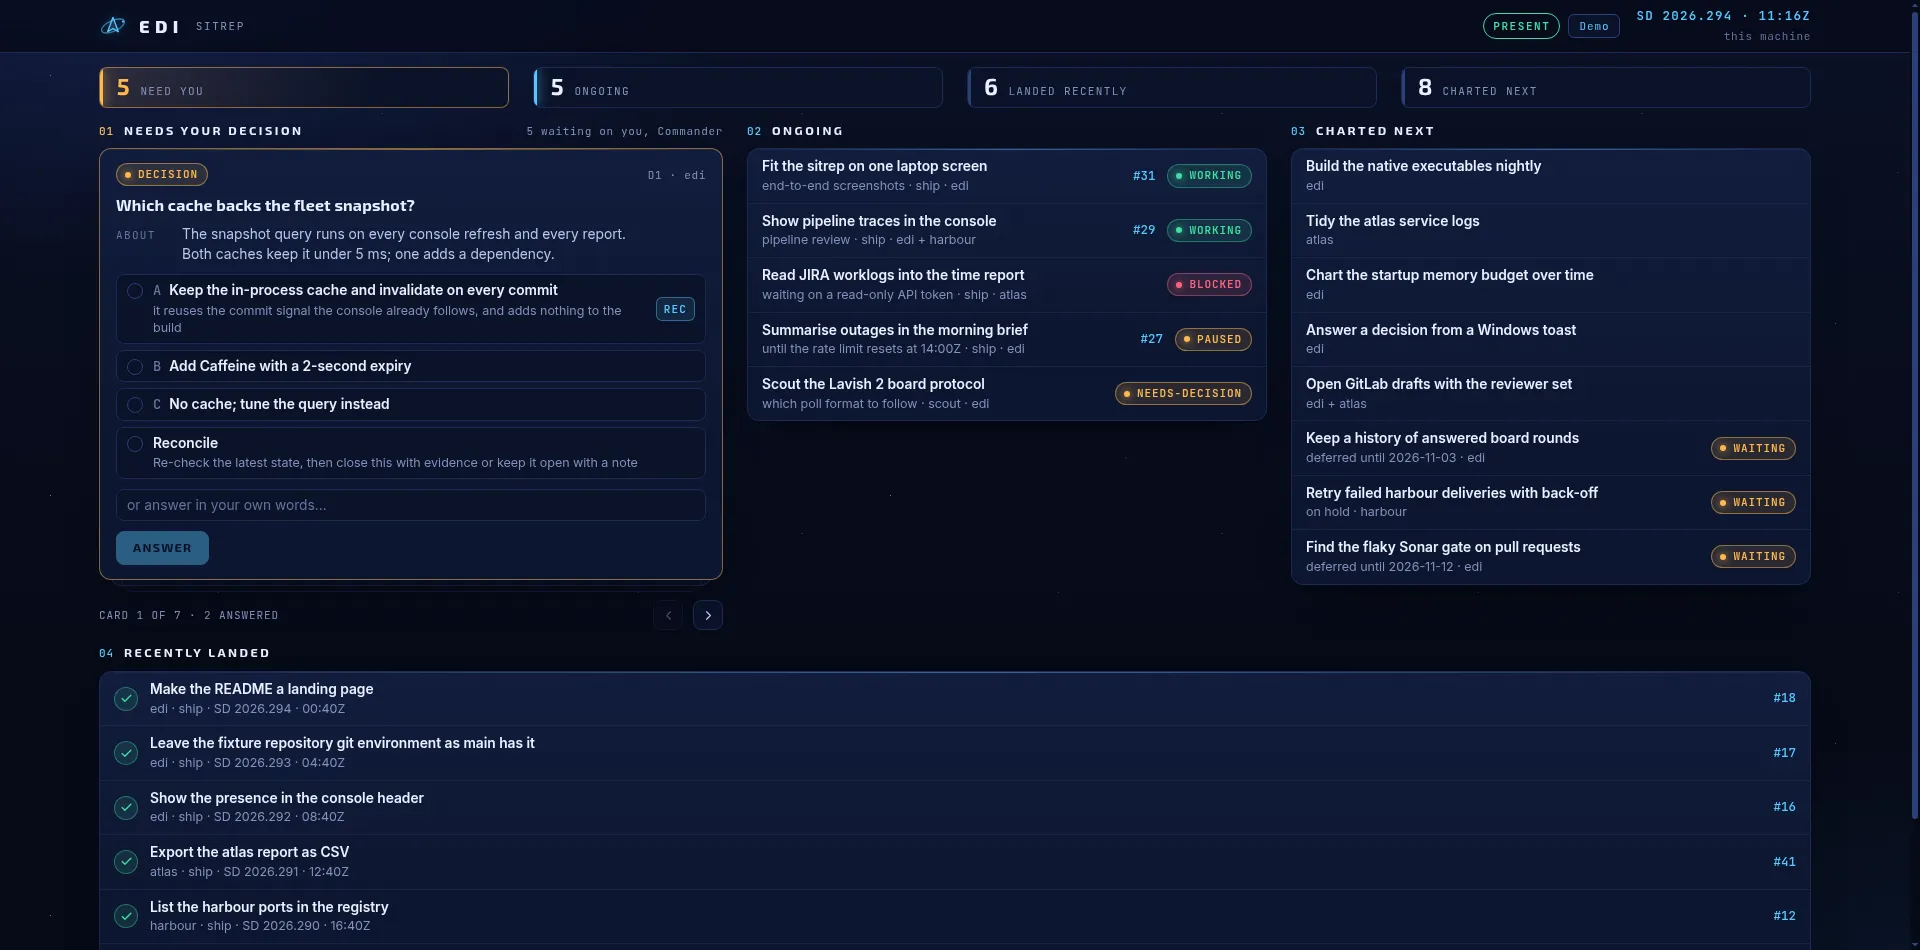
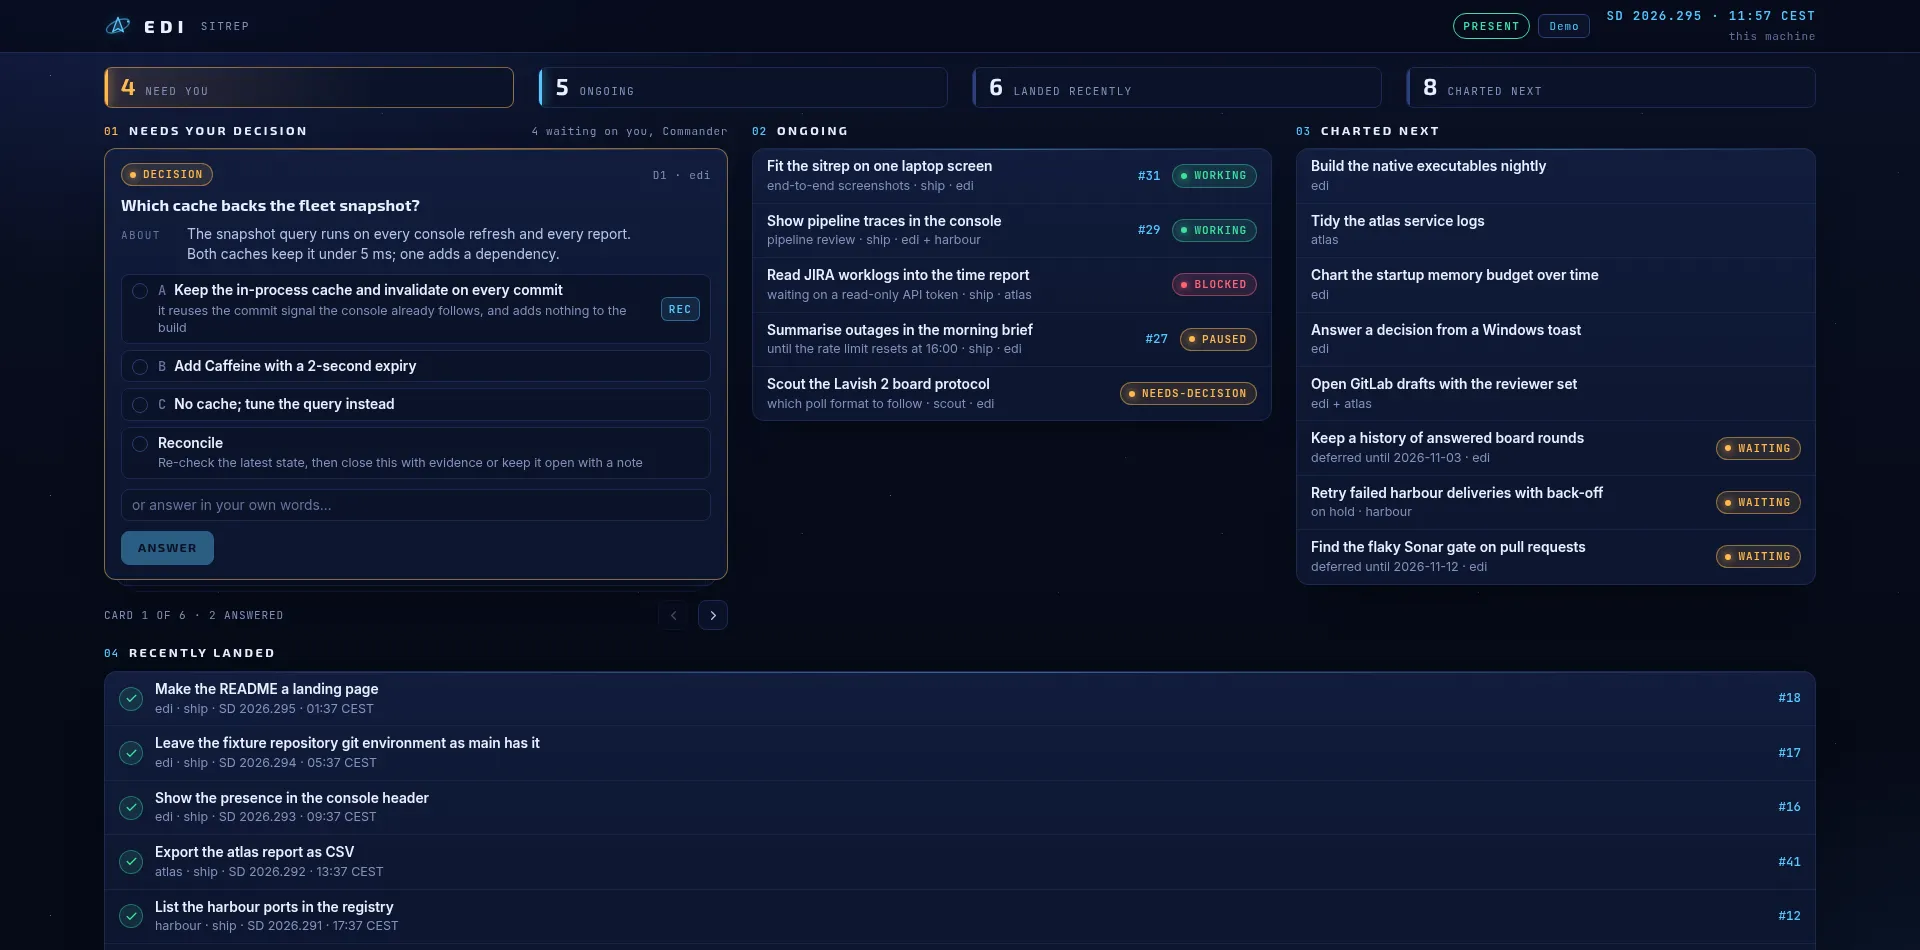
EDI-33 Keep the phone header clear of the longer clock
The header clock now names its zone, so on a screen 500 CSS pixels
wide or narrower it keeps only the time and the header tightens its
gaps and buttons. The docs describe local time and carry screenshots
of the page with the new clock.

diff --git a/edi-console/src/app/console/console-header.spec.ts b/edi-console/src/app/console/console-header.spec.ts
@@ -1,0 +1,29 @@
+import { ComponentFixture, TestBed } from '@angular/core/testing';
+
+import { ConsoleHeader } from './console-header';
+
+describe('ConsoleHeader', () => {
+  let fixture: ComponentFixture<ConsoleHeader>;
+
+  beforeEach(() => {
+    fixture = TestBed.createComponent(ConsoleHeader);
+  });
+
+  it('shows the stardate clock in the machine’s zone, with the day apart so a phone can leave it out', async () => {
+    fixture.componentRef.setInput('generated', '2026-10-25T01:30:00Z');
+    fixture.componentRef.setInput('zone', 'Europe/Brussels');
+    await fixture.whenStable();
+    const header: HTMLElement = fixture.nativeElement;
+
+    expect(header.querySelector('.sr-clock__sd')?.textContent).toBe('SD 2026.298 · 02:30 CET');
+    expect(header.querySelector('.sr-clock__day')?.textContent).toBe('SD 2026.298 · ');
+  });
+
+  it('shows a dash before the core has said what time it is', async () => {
+    await fixture.whenStable();
+    const header: HTMLElement = fixture.nativeElement;
+
+    expect(header.querySelector('.sr-clock__sd')?.textContent).toBe('-');
+    expect(header.querySelector('.sr-clock__day')).toBeNull();
+  });
+});

diff --git a/edi-console/src/app/console/console-header.ts b/edi-console/src/app/console/console-header.ts
@@ -1,7 +1,7 @@
 import { Component, computed, input, output } from '@angular/core';
 
 import { PresenceChoice, PresenceShown } from './sitrep';
-import { stardate } from './stardate';
+import { shipDay, shipTime } from './stardate';
 
 @Component({
   selector: 'app-console-header',
@@ -15,7 +15,8 @@ export class ConsoleHeader {
   readonly presence = input<PresenceShown | null>(null);
   readonly presenceChosen = output<PresenceChoice>();
 
-  protected readonly stamp = computed(() => stardate(this.generated() ?? '', this.zone() ?? ''));
+  protected readonly day = computed(() => shipDay(this.generated() ?? '', this.zone() ?? ''));
+  protected readonly time = computed(() => shipTime(this.generated() ?? '-', this.zone() ?? ''));
   protected readonly mode = computed(() => {
     const presence = this.presence();
     if (!presence) {

diff --git a/edi-console/src/app/console/stardate.ts b/edi-console/src/app/console/stardate.ts
@@ -15,6 +15,11 @@ export function stardate(stamp: string, zone: string): string {
   return clock ? `${starday(clock)} · ${timeOfDay(clock)}` : stamp || '-';
 }
 
+export function shipDay(stamp: string, zone: string): string | null {
+  const clock = shipClockAt(stamp, zone);
+  return clock ? starday(clock) : null;
+}
+
 export function shipTime(stamp: string, zone: string): string {
   const clock = shipClockAt(stamp, zone);
   return clock ? timeOfDay(clock) : stamp;

diff --git a/edi-console/src/app/console/console-header.html b/edi-console/src/app/console/console-header.html
@@ -23,7 +23,7 @@
       </span>
     }
     <span class="sr-clock">
-      <span class="sr-clock__sd">{{ stamp() }}</span>
+      <span class="sr-clock__sd">@if (day(); as day) {<span class="sr-clock__day">{{ day }} · </span>}{{ time() }}</span>
       <span class="sr-clock__home">{{ machine() ?? '-' }}</span>
     </span>
   </div>

diff --git a/edi-console/src/app/console/console-header.css b/edi-console/src/app/console/console-header.css
@@ -145,3 +145,17 @@
     display: none;
   }
 }
+
+@media (max-width: 500px) {
+  .sr-nav__inner {
+    gap: 12px;
+  }
+
+  .sr-presence__button {
+    padding: 4px 6px;
+  }
+
+  .sr-clock__day {
+    display: none;
+  }
+}

diff --git a/docs/decisions/ADR-155-edi-shows-the-machines-local-time-and-stores-utc.md b/docs/decisions/ADR-155-edi-shows-the-machines-local-time-and-stores-utc.md
@@ -18,6 +18,7 @@ A few application classes already read `ZoneId.systemDefault()` for the machine'
 - `Moments` renders a moment as "2026-10-22 11:14 CEST" and a day as the machine's calendar day, in the zone `Clock.zone` names, with the zone's English short name so summer time shows.
 - `PresenceWords`, `HealthWords` and `DecisionLines` render through `Moments`, so the captain report, the sitrep text, the return brief, presence lines, `edi decision list`, task detail, worker lists and the primary's digests share it.
 - `edi-sitrep.v1` gains `zone`, the machine's zone id, and the console renders every time on the sitrep page in that zone, not the browser's: the header clock as "SD 2026.295 · 11:14 CEST", with the day of the year counted on the machine's calendar.
+- On a screen 500 CSS pixels wide or narrower the header clock keeps only the time, "11:14 CEST", and the header tightens its gaps and buttons, since the full stardate would push the presence buttons onto the wordmark.
 - `StatusLineText`, `MeetingCalendar`, `OutlookCalendar`, `MemoryQuery`, `PrepareThePrimary` and `SessionStartDigestQuery` take the machine's day and zone from `Clock.zone`.
 
 **Motivation:** The captain reads times against the clock on the wall, so a UTC time is a sum to do and a chance to misread a deadline by one or two hours.

diff --git a/docs/console-and-boards.md b/docs/console-and-boards.md
@@ -14,6 +14,9 @@ The sitrep page shows what needs a decision, what is ongoing and what is charted
 
 ![The sitrep page in a 1536 by 730 viewport, a laptop screen at 125% scaling](images/sitrep/sitrep-1536x730.webp)
 
+Every time the page shows is in the machine's own time zone, which the core names in the sitrep document, so the page and the command agree whatever zone the browser is in ([ADR-155](decisions/ADR-155-edi-shows-the-machines-local-time-and-stores-utc.md)).
+The header clock reads as a stardate, such as "SD 2026.295 · 11:14 CEST", and on a phone it keeps only the time.
+
 Each decision card takes an option, the captain's own words, or both, and records them verbatim as the captain's answer; Reconcile asks the primary to re-check the decision against reality instead of answering it ([ADR-108](decisions/ADR-108-a-console-answer-is-the-captains-word-and-reconcile-asks-for-a-recheck.md)).
 The console opens through `cmd.exe /c start` from `/mnt/c` on WSL, and through `xdg-open` on a Linux desktop; elsewhere, or when that fails, the command prints the sign-in link instead ([ADR-150](decisions/ADR-150-edi-opens-the-console-through-windows-or-the-linux-desktop.md)).
 

diff --git a/docs/backlog-and-decisions.md b/docs/backlog-and-decisions.md
@@ -40,6 +40,7 @@ edi sitrep                                          # the same report, read-only
 A turn is `{"done": [{"projects", "text"}], "next": [{"projects", "text"}], "tasks": {"<task>": {"text", "state", "projects"}}}`, every part optional.
 Inside tmux the report fits the pane it runs in ([ADR-048](decisions/ADR-048-the-command-measures-its-pane.md)).
 Every captain-facing card and report is linted for internal labels ([ADR-128](decisions/ADR-128-the-voice-lint-keeps-internal-labels-from-the-captain.md)).
+Every time a report, a decision list or a presence line shows is in the machine's own time zone, such as "Answered 2026-10-22 11:14 CEST", while the store, the event log and every API keep UTC instants ([ADR-155](decisions/ADR-155-edi-shows-the-machines-local-time-and-stores-utc.md)).
 
 ## The captain's word
 
